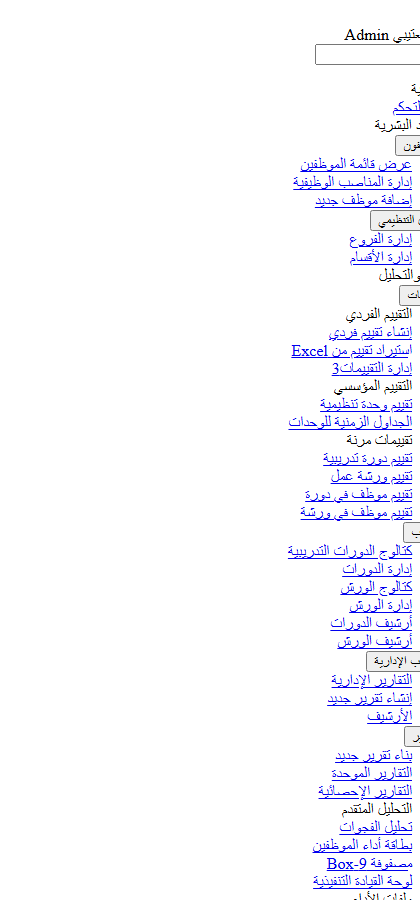
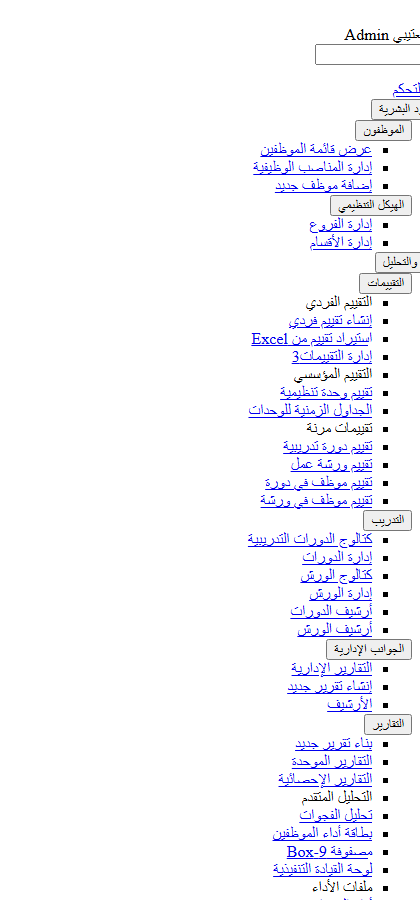
docs(CD-012): dark-green nested accordion sidebar writeup with updated screenshots

Changed region(s): [[0.5881, 0.0933, 1.0, 1.0]]

diff --git a/CD-012_Implementation.md b/CD-012_Implementation.md
@@ -124,11 +124,45 @@ check-encoding --path=delivery   -> 43 ملفاً / تسرّب 0 / exit=0
 
 **القياسات النهائية:**
 ```
-tests/runner.php                 -> 112/112 نجحت · 0 فشل · 0 خطأ · 13.2s
-check-encoding --path=app        -> 433 ملفاً / 73496 سطراً / تسرّب 0 / exit=0
-check-encoding --path=delivery   -> 43 ملفاً / تسرّب 0 / exit=0
+tests/runner.php                 -> 112/112 نجحت · 0 فشل · 0 خطأ · 13.69s
+check-encoding --path=app        -> 433 ملفاً / 73529 سطراً / تسرّب 0 / exit=0
 git diff --check                 -> exit=0
-اللقطات                          -> CD-012_sidebar_desktop.png (54,713 بايت) · CD-012_sidebar_mobile.png (30,375 بايت)
+اللقطات                          -> CD-012_sidebar_desktop.png · CD-012_sidebar_mobile.png
+```
+
+---
+
+## 2.d العودة للهوية الخضراء + قوائم متداخلة ثلاثية المستويات ✅
+
+بناءً على توجيه كبير المستشارين (تعديلان جوهريان قبل الاعتماد النهائي):
+
+### 1) العودة للهوية الخضراء الداكنة
+| المتطلب | التنفيذ |
+|---|---|
+| خلفية الشريط | تدرّج أخضر داكن `#07211c → #0c2823 → #0d5e52` (هوية النظام). |
+| الحدود الزجاجية | مُحافَظ عليها (`rgba(255,255,255,.10)`) — Glassmorphism كما هو. |
+| Active / Neon | باللون **الزمردي** `#34d399` / `#10b981` (خط جانبي متوهّج + أيقونة زمردية). |
+| الهيدر النحيف والفوتر | تدرّج أخضر `#07211c → #0d5e52` + حد ذهبي `2px` (تمييز Enterprise). |
+
+### 2) قوائم متداخلة (Nested Accordion) على 3 مستويات
+| المستوى | العنصر | الوصف |
+|---|---|---|
+| **L1 — الفئة** | `.sidebar-category` | الموارد البشرية · التقييم والتحليل · الإدارة والنظام — قابلة للطي (طيّ ذكي: فتح فئة يغلق البقية). |
+| **L2 — المجموعة** | `.sidebar-group` | الموظفون · الهيكل التنظيمي · التقييمات · التدريب · الجوانب الإدارية · التقارير · الإعدادات. |
+| **L3 — الرابط** | `.sidebar-sublink` | الروابط الفعلية (نفس الصلاحيات ونفس منطق `$__isActive`). |
+
+- **حركات سلسة:** طيّ عبر `max-height` (0.35s ease) + سهم `caret` دوّار.
+- **فتح تلقائي حسب المسار:** الفئة والمجموعة النشطتان تُفتحان تلقائياً عند تحميل الصفحة.
+- **البحث السريع** يفلتر المستويات الثلاثة ويفتح المسارات المطابقة.
+- «لوحة التحكم» و«التحليل الاستراتيجي» روابط مباشرة (بدون فئة) · «المستخدمون»/«الأدوار» روابط مباشرة داخل «الإدارة والنظام».
+
+**ملفات الواجهة المتأثرة:** `sidebar.php` · `sidebar.css` · `sidebar.js` (القيد محفوظ: لا Controllers/Routes/Models · لا مكتبات خارجية).
+
+**التحقق:**
+```
+DOM render (/dashboard)              -> app-sidebar ✓ · profile ✓ · search ✓
+DOM render (/employees/positions)    -> sidebar-category open=1 · sidebar-group open=1 · sidebar-sublink active=1
+CSS served                           -> green #07211c ✓ · emerald #34d399 ✓ · category css ✓ · navy #0B1120 gone ✓
 ```
 
 ---
